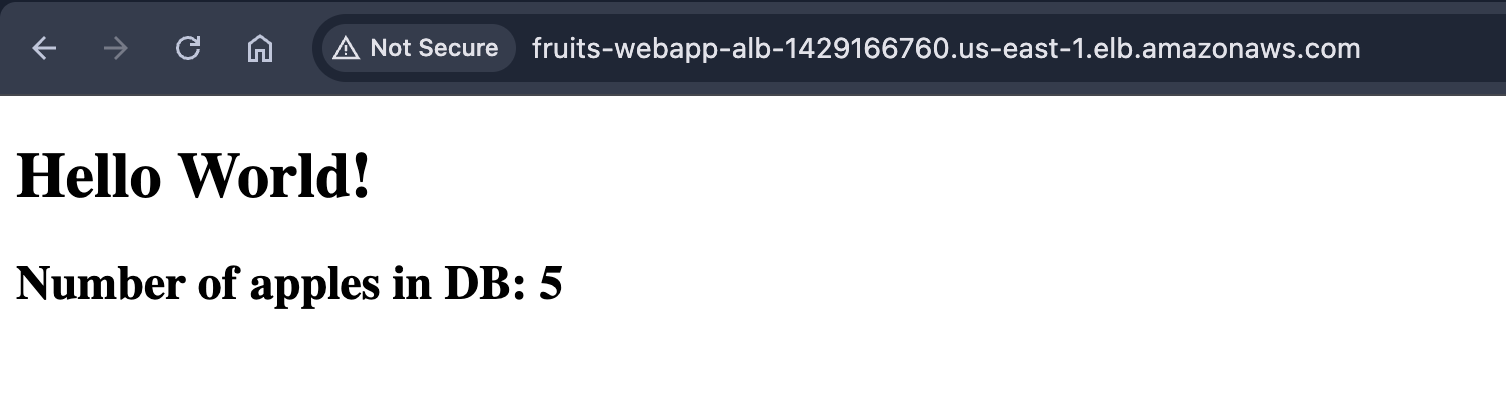
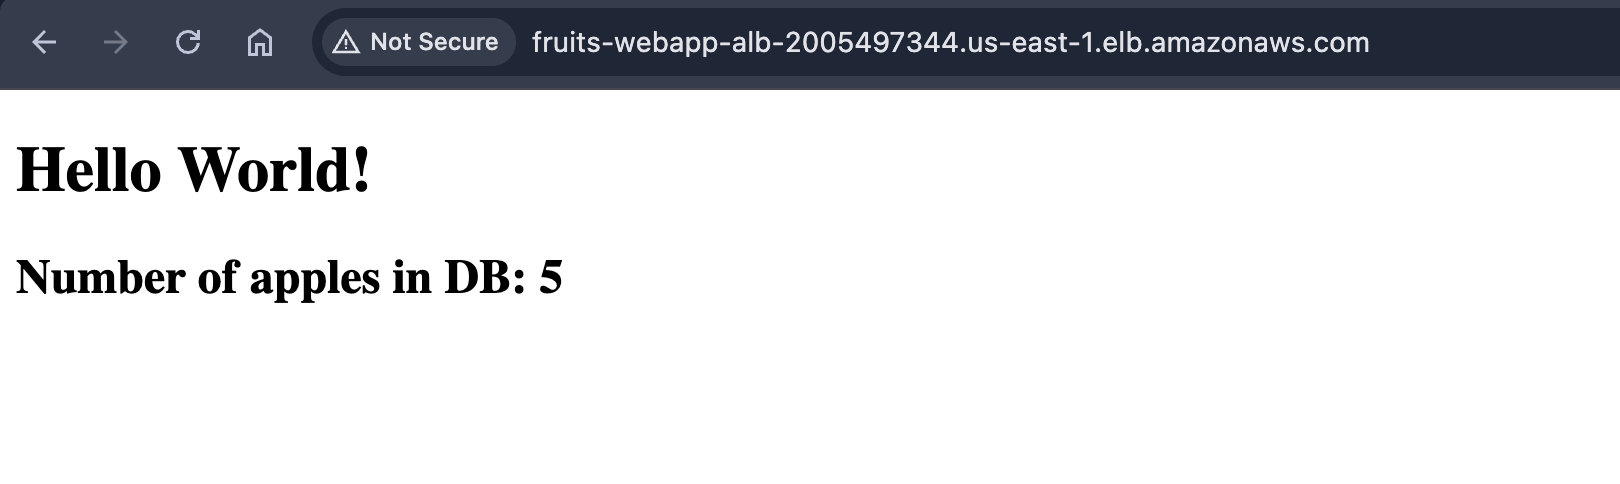
fix: complete deploy and scripts

diff --git a/README.md b/README.md
@@ -73,10 +73,17 @@ We have provided automation scripts to make cloud provisioning completely seamle
    Once applied, Terraform will output the `alb_dns_name`. Navigate to this URL in your browser to view the live application.
 
 ### Teardown
-To destroy the infrastructure and avoid ongoing AWS charges:
+To destroy the infrastructure and avoid ongoing AWS charges, **you must execute the teardown in this exact order**:
+
+1. **Destroy the Main Infrastructure** (EC2, ALB, VPC):
 ```bash
-cd terraform
-terraform destroy -auto-approve
+./scripts/destroy_infra.sh
+```
+
+2. **Destroy the Backend** (S3 State Bucket and DynamoDB Table):
+*Do not do this until the main infrastructure is destroyed, otherwise Terraform loses track of the resources!*
+```bash
+./scripts/destroy_backend.sh
 ```
 
 ## 🛠 Technology Stack
